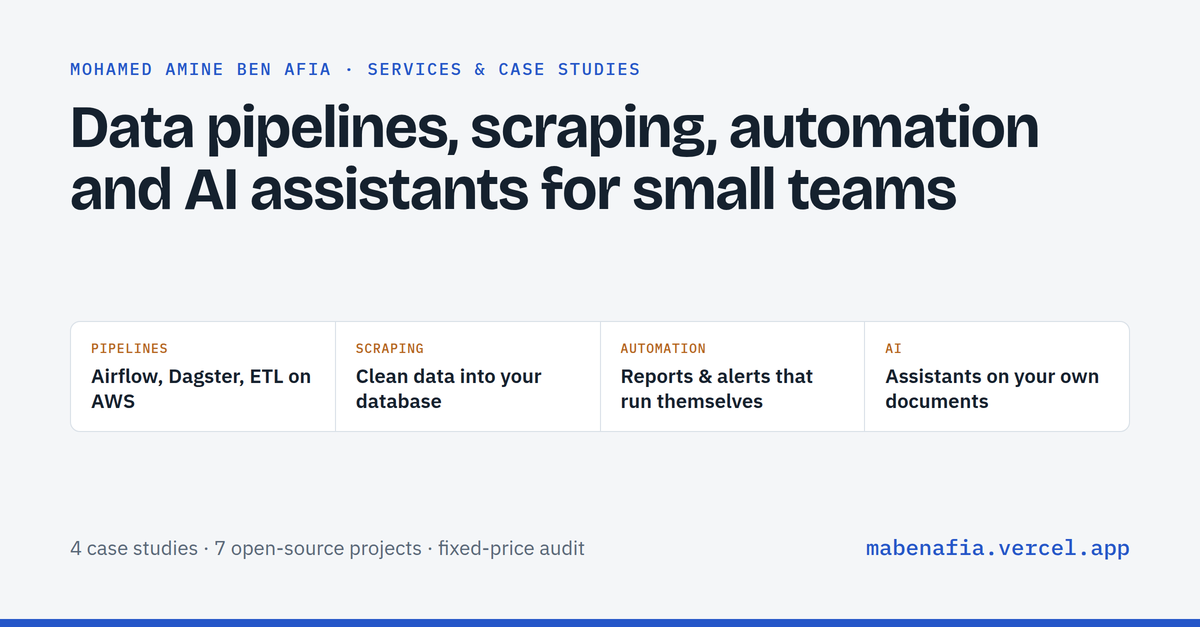
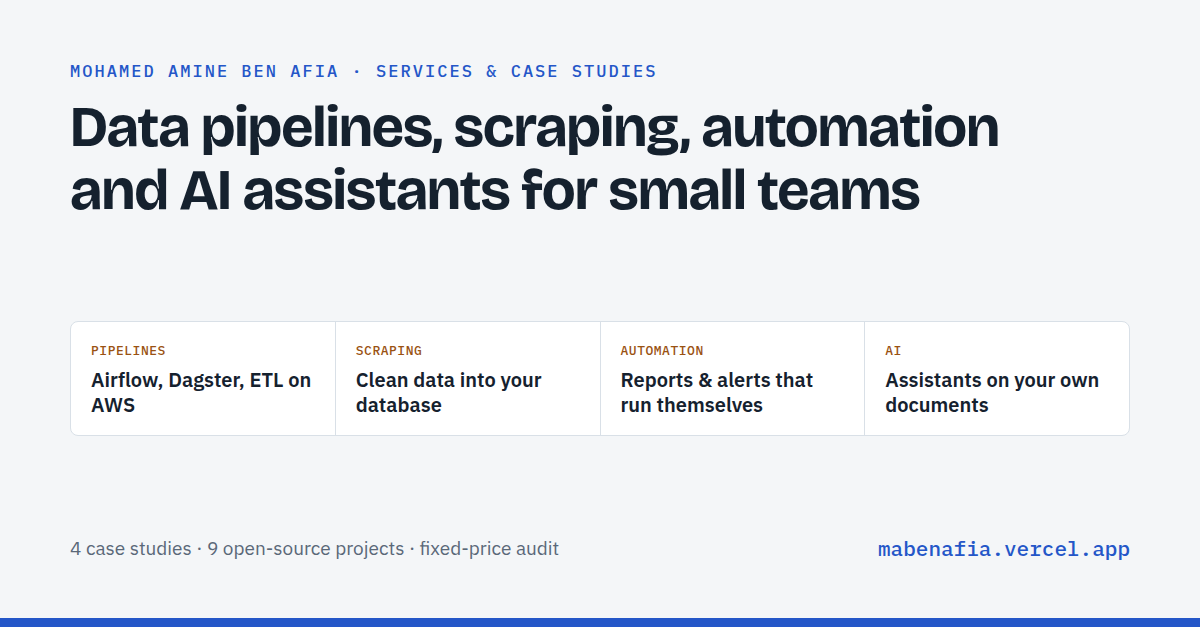
9 public projects: hero figure and link preview image (now generated by make_og.py)

diff --git a/site/index.html b/site/index.html
@@ -48,7 +48,7 @@
     <div class="fig" role="listitem"><b>219</b><span><span data-l="en">client data flows I migrated to Apache Airflow on AWS</span><span data-l="fr">flux de données clients que j'ai migrés vers Apache Airflow sur AWS</span></span></div>
     <div class="fig" role="listitem"><b>98.6%</b><span><span data-l="en">task success on that platform, a year after I left</span><span data-l="fr">de tâches réussies sur cette plateforme, un an après mon départ</span></span></div>
     <div class="fig" role="listitem"><b>3</b><span><span data-l="en">freelance clients: health-tech, textile, software</span><span data-l="fr">clients freelance : santé, textile, logiciel</span></span></div>
-    <div class="fig" role="listitem"><b>7</b><span><span data-l="en">public projects you can open, try and read</span><span data-l="fr">projets publics à ouvrir, tester et lire</span></span></div>
+    <div class="fig" role="listitem"><b>9</b><span><span data-l="en">public projects you can open, try and read</span><span data-l="fr">projets publics à ouvrir, tester et lire</span></span></div>
   </div>
 </header>
 

diff --git a/make_og.py b/make_og.py
@@ -1,0 +1,43 @@
+"""Renders site/assets/og.png (the link preview image) with headless Chrome.
+
+    python3 make_og.py
+
+Update COUNTS when a case study or an open-source project is added.
+"""
+import subprocess
+import tempfile
+from pathlib import Path
+
+HERE = Path(__file__).parent
+CHROME = str(next(Path.home().glob(".cache/ms-playwright/chromium-*/chrome-linux64/chrome")))
+COUNTS = "4 case studies · 9 open-source projects · fixed-price audit"
+CARDS = [("PIPELINES", "Airflow, Dagster, ETL on AWS"), ("SCRAPING", "Clean data into your database"),
+         ("AUTOMATION", "Reports &amp; alerts that run themselves"), ("AI", "Assistants on your own documents")]
+
+cards = "".join(f'<div class="card"><i>{k}</i><b>{v}</b></div>' for k, v in CARDS)
+page = f"""<!doctype html><html><head><meta charset="utf-8"><style>
+@import url('https://fonts.googleapis.com/css2?family=Bricolage+Grotesque:opsz,wght@12..96,700&family=IBM+Plex+Sans:wght@400;600&family=IBM+Plex+Mono:wght@500&display=swap');
+*{{margin:0;box-sizing:border-box}}
+body{{width:1200px;height:627px;background:#f4f6f8;color:#15212e;font-family:"IBM Plex Sans",sans-serif;position:relative;overflow:hidden}}
+.eb{{position:absolute;left:70px;top:60px;font-family:"IBM Plex Mono",monospace;font-weight:500;color:#2456c8;letter-spacing:.12em;font-size:17px}}
+h1{{position:absolute;left:70px;top:96px;width:1000px;font-family:"Bricolage Grotesque",sans-serif;font-weight:700;font-size:58px;line-height:1.08;letter-spacing:-.02em}}
+.cards{{position:absolute;left:70px;top:321px;width:1060px;display:flex;background:#fff;border:1px solid #d9e0e7;border-radius:8px}}
+.card{{flex:1;padding:20px 20px 18px;border-left:1px solid #d9e0e7}}.card:first-child{{border-left:0}}
+.card i{{display:block;font-style:normal;font-family:"IBM Plex Mono",monospace;font-size:13px;color:#9a5212;letter-spacing:.04em;margin-bottom:8px}}
+.card b{{font-weight:600;font-size:20px;line-height:1.25}}
+.foot{{position:absolute;left:70px;top:536px;color:#5a6878;font-size:19px}}
+.url{{position:absolute;right:70px;top:534px;font-family:"IBM Plex Mono",monospace;font-weight:500;color:#2456c8;font-size:21px}}
+.bar{{position:absolute;left:0;right:0;bottom:0;height:9px;background:#2456c8}}
+</style></head><body><div class="eb">MOHAMED AMINE BEN AFIA · SERVICES &amp; CASE STUDIES</div>
+<h1>Data pipelines, scraping, automation and AI assistants for small teams</h1>
+<div class="cards">{cards}</div><div class="foot">{COUNTS}</div><div class="url">mabenafia.vercel.app</div><div class="bar"></div></body></html>"""
+
+with tempfile.NamedTemporaryFile("w", suffix=".html", delete=False, dir=HERE) as f:
+    f.write(page)
+try:
+    subprocess.run([CHROME, "--headless=new", "--no-sandbox", "--hide-scrollbars", "--window-size=1200,627",
+                    "--virtual-time-budget=4000", f"--screenshot={HERE / 'site/assets/og.png'}", f"file://{f.name}"],
+                   check=True, capture_output=True)
+finally:
+    Path(f.name).unlink()
+print("wrote site/assets/og.png")

diff --git a/build_index.py b/build_index.py
@@ -28,7 +28,7 @@ body = f'''
     <div class="fig" role="listitem"><b>219</b><span>{t("client data flows I migrated to Apache Airflow on AWS","flux de données clients que j'ai migrés vers Apache Airflow sur AWS")}</span></div>
     <div class="fig" role="listitem"><b>98.6%</b><span>{t("task success on that platform, a year after I left","de tâches réussies sur cette plateforme, un an après mon départ")}</span></div>
     <div class="fig" role="listitem"><b>3</b><span>{t("freelance clients: health-tech, textile, software","clients freelance : santé, textile, logiciel")}</span></div>
-    <div class="fig" role="listitem"><b>7</b><span>{t("public projects you can open, try and read","projets publics à ouvrir, tester et lire")}</span></div>
+    <div class="fig" role="listitem"><b>9</b><span>{t("public projects you can open, try and read","projets publics à ouvrir, tester et lire")}</span></div>
   </div>
 </header>
 
